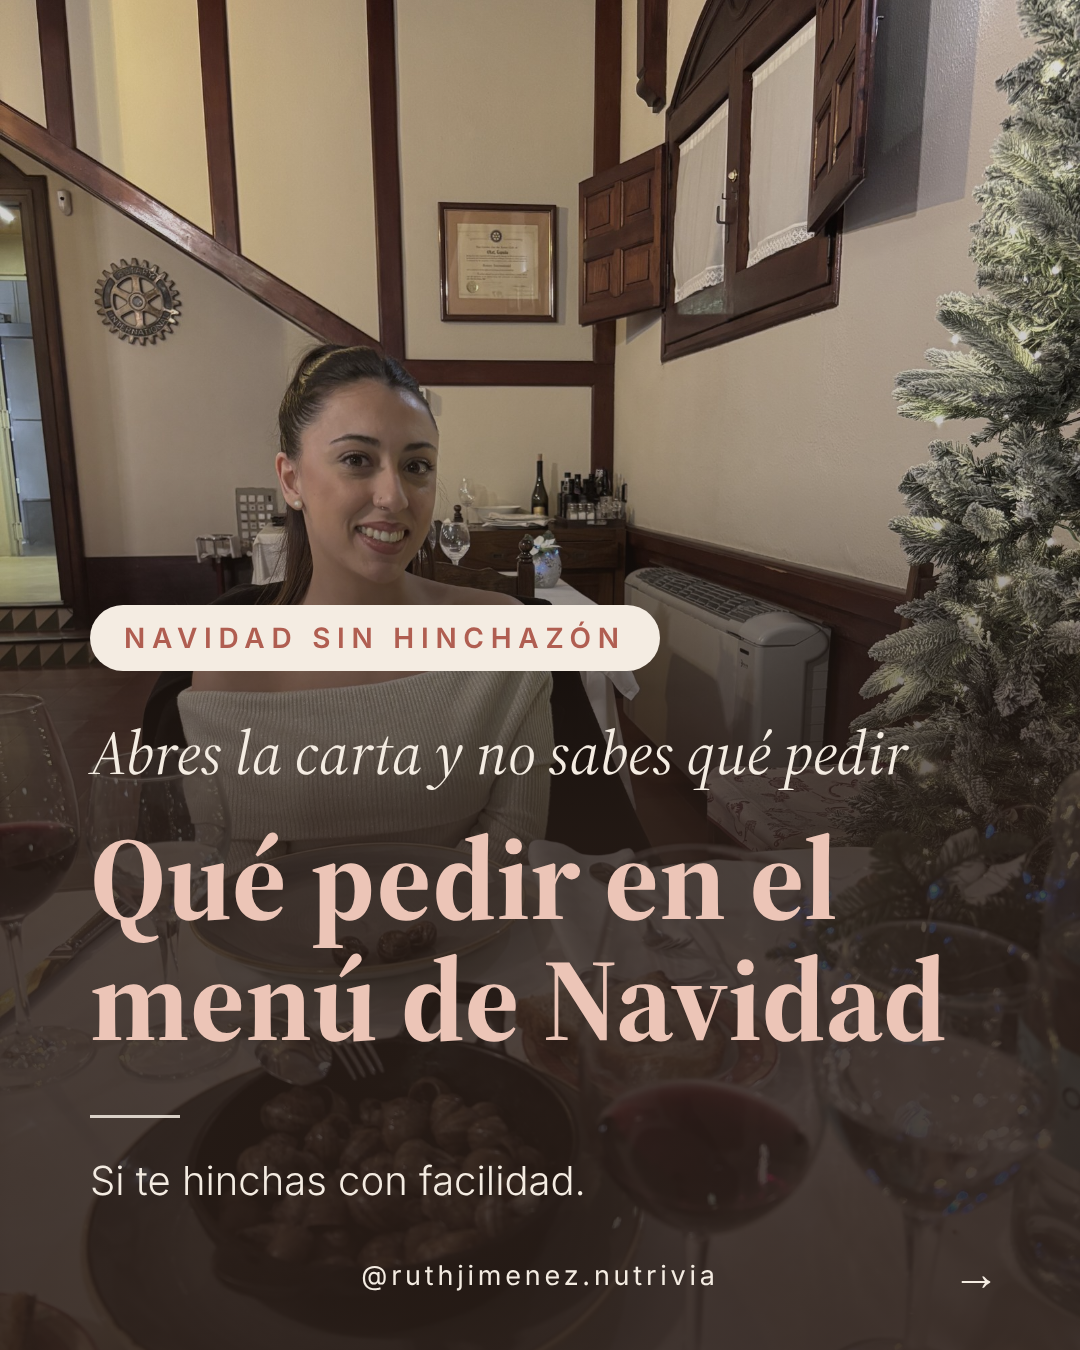
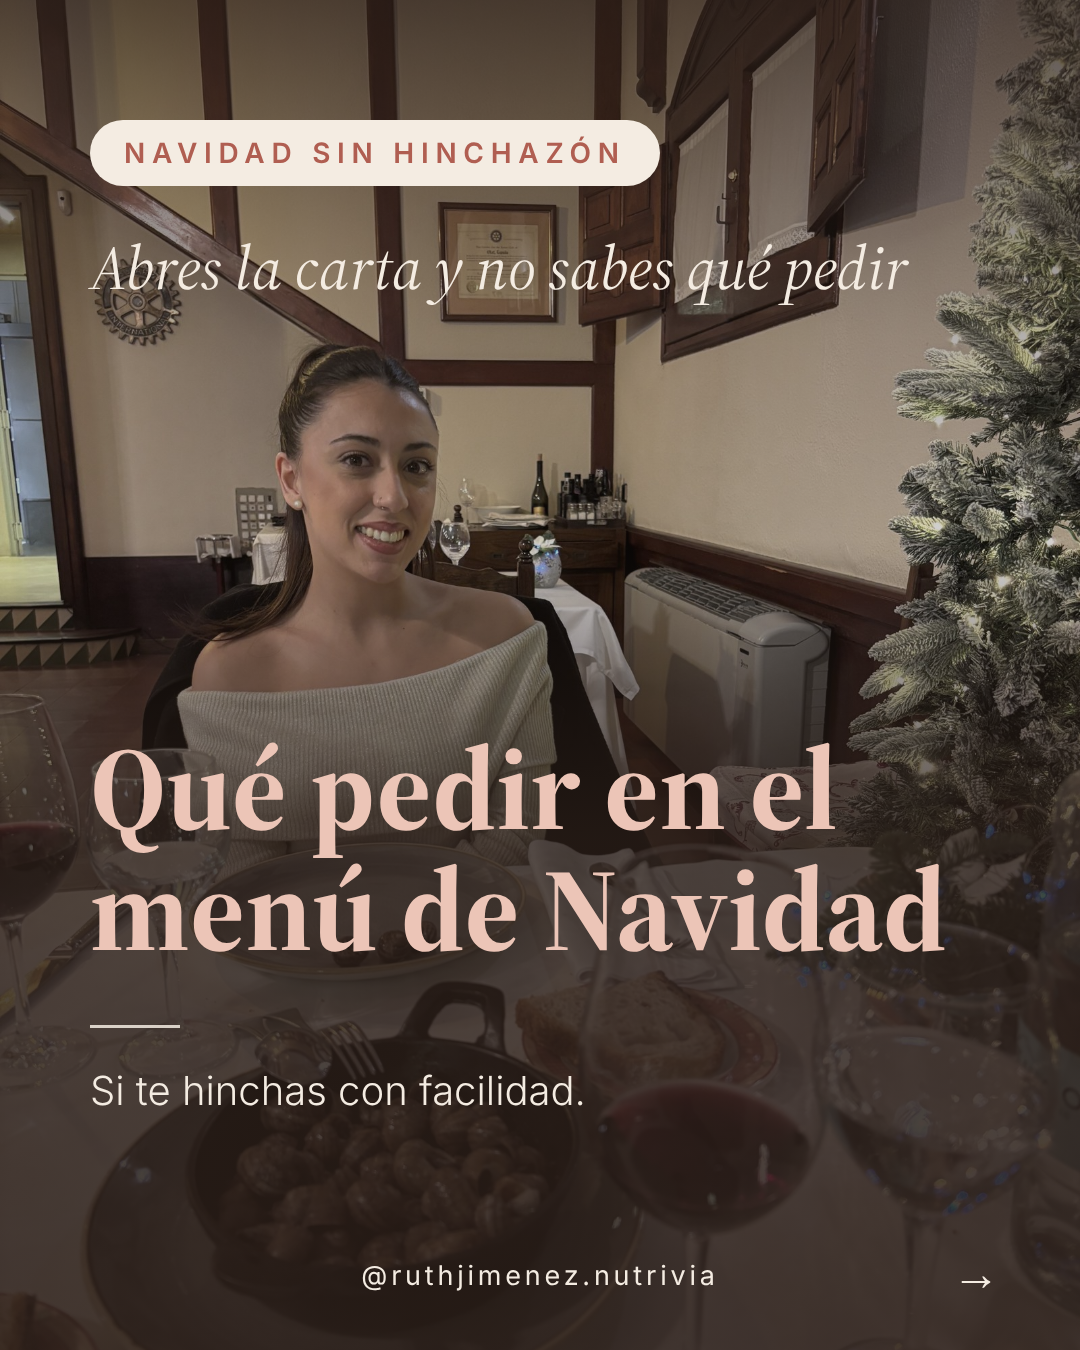
Portadas Navidad: nueva foto en 3 claves y texto partido (etiqueta arriba, título abajo)
Claude-Session: https://claude.ai/code/session_01BJhanGQbqMstPra7Cbo7cp

diff --git a/diciembre/generar-carruseles.js b/diciembre/generar-carruseles.js
@@ -69,7 +69,7 @@ const carruseles = [
   {
     carpeta: '2026-12-05-3-claves-navidad',
     slides: [
-      { tipo: 'portada', foto: 'IMG_9678.jpg', pos: 'center 75%', arriba: true, pill: 'Navidad sin hinchazón', pre: 'Disfruta sin miedo a comer', titulo: '3 claves para no acabar hinchada', sub: '' },
+      { tipo: 'portada', foto: 'IMG_9521.jpg', pos: 'center 20%', abajo: true, partido: true, bajo: true, pill: 'Navidad sin hinchazón', pre: 'Disfruta sin miedo a comer', titulo: '3 claves para no acabar hinchada', sub: 'Lo que hago con mis pacientes.' },
       { tipo: 'tarjetas', kicker: 'Esto es para ti', titulo: '¿Ya piensas en *cómo vas a acabar*?', icono: '→', tarjetas: [
         ['Hinchada después de la cena', 'Desabrochándote el botón a escondidas.'],
         ['Con gases y sin poder moverte', 'Mientras los demás siguen en la sobremesa.'],
@@ -87,7 +87,7 @@ const carruseles = [
   {
     carpeta: '2026-12-08-menu-navidad',
     slides: [
-      { tipo: 'portada', foto: 'IMG_9790.jpg', pos: 'center 25%', abajo: true, pill: 'Navidad sin hinchazón', pre: 'Abres la carta y no sabes qué pedir', titulo: 'Qué pedir en el menú de Navidad', sub: 'Si te hinchas con facilidad.' },
+      { tipo: 'portada', foto: 'IMG_9790.jpg', pos: 'center 25%', abajo: true, partido: true, pill: 'Navidad sin hinchazón', pre: 'Abres la carta y no sabes qué pedir', titulo: 'Qué pedir en el menú de Navidad', sub: 'Si te hinchas con facilidad.' },
       { tipo: 'tarjetas', kicker: 'Antes de empezar', titulo: 'No es una lista de *prohibidos*', icono: '→', tarjetas: [
         ['Es una guía para elegir', 'Con más tranquilidad y menos miedo.'],
         ['Cada persona tolera cosas distintas', 'Por eso un plan tiene que ser personal.'],
@@ -125,6 +125,9 @@ em { font-family: 'Source Serif 4', serif; font-style: italic; font-weight: 400;
 .portada .velo.arriba { background: linear-gradient(180deg, rgba(42,30,24,.82) 0%, rgba(42,30,24,.6) 40%, rgba(42,30,24,.08) 70%, rgba(42,30,24,.35) 100%); }
 .portada img.claro { filter: brightness(1.25); }
 .portada .txt.abajo { top: auto; bottom: 140px; }
+.portada .txt.alto { bottom: 230px; }
+.portada .txt.alto h1 { margin-top: 0; }
+.portada .velo.partido { background: linear-gradient(180deg, rgba(42,30,24,.78) 0%, rgba(42,30,24,.35) 25%, rgba(42,30,24,.2) 40%, rgba(42,30,24,.8) 62%, rgba(42,30,24,.88) 100%); }
 .portada .velo.abajo { background: linear-gradient(180deg, rgba(42,30,24,.15) 0%, rgba(42,30,24,.25) 35%, rgba(42,30,24,.80) 62%, rgba(42,30,24,.88) 100%); }
 
 /* contenido */
@@ -162,8 +165,9 @@ em { font-family: 'Source Serif 4', serif; font-style: italic; font-weight: 400;
 
 function slideHTML(s) {
   if (s.tipo === 'portada') {
-    return `<div class="s portada"><img class="${s.arriba ? 'claro' : ''}" src="${foto(s.foto)}" style="object-position:${s.pos}"><div class="velo${s.abajo ? ' abajo' : ''}${s.arriba ? ' arriba' : ''}"></div>
-      <div class="txt${s.abajo ? ' abajo' : ''}"><span class="pill">${s.pill}</span><div class="pre">${s.pre}</div><h1>${s.titulo}</h1>${s.sub ? `<div class="raya"></div><div class="sub">${s.sub}</div>` : ''}</div>
+    return `<div class="s portada"><img class="${s.arriba ? 'claro' : ''}" src="${foto(s.foto)}" style="object-position:${s.pos}"><div class="velo${s.partido ? ' partido' : (s.abajo ? ' abajo' : '')}${s.arriba ? ' arriba' : ''}"></div>
+      ${s.partido ? `<div class="txt"><span class="pill">${s.pill}</span><div class="pre">${s.pre}</div></div>` : ''}
+      <div class="txt${s.abajo ? ' abajo' : ''}${s.partido && !s.bajo ? ' alto' : ''}">${s.partido ? '' : `<span class="pill">${s.pill}</span><div class="pre">${s.pre}</div>`}<h1>${s.titulo}</h1>${s.sub ? `<div class="raya"></div><div class="sub">${s.sub}</div>` : ''}</div>
       <div class="handle">@ruthjimenez.nutrivia</div><div class="flecha">→</div></div>`;
   }
   if (s.tipo === 'tarjetas') {
